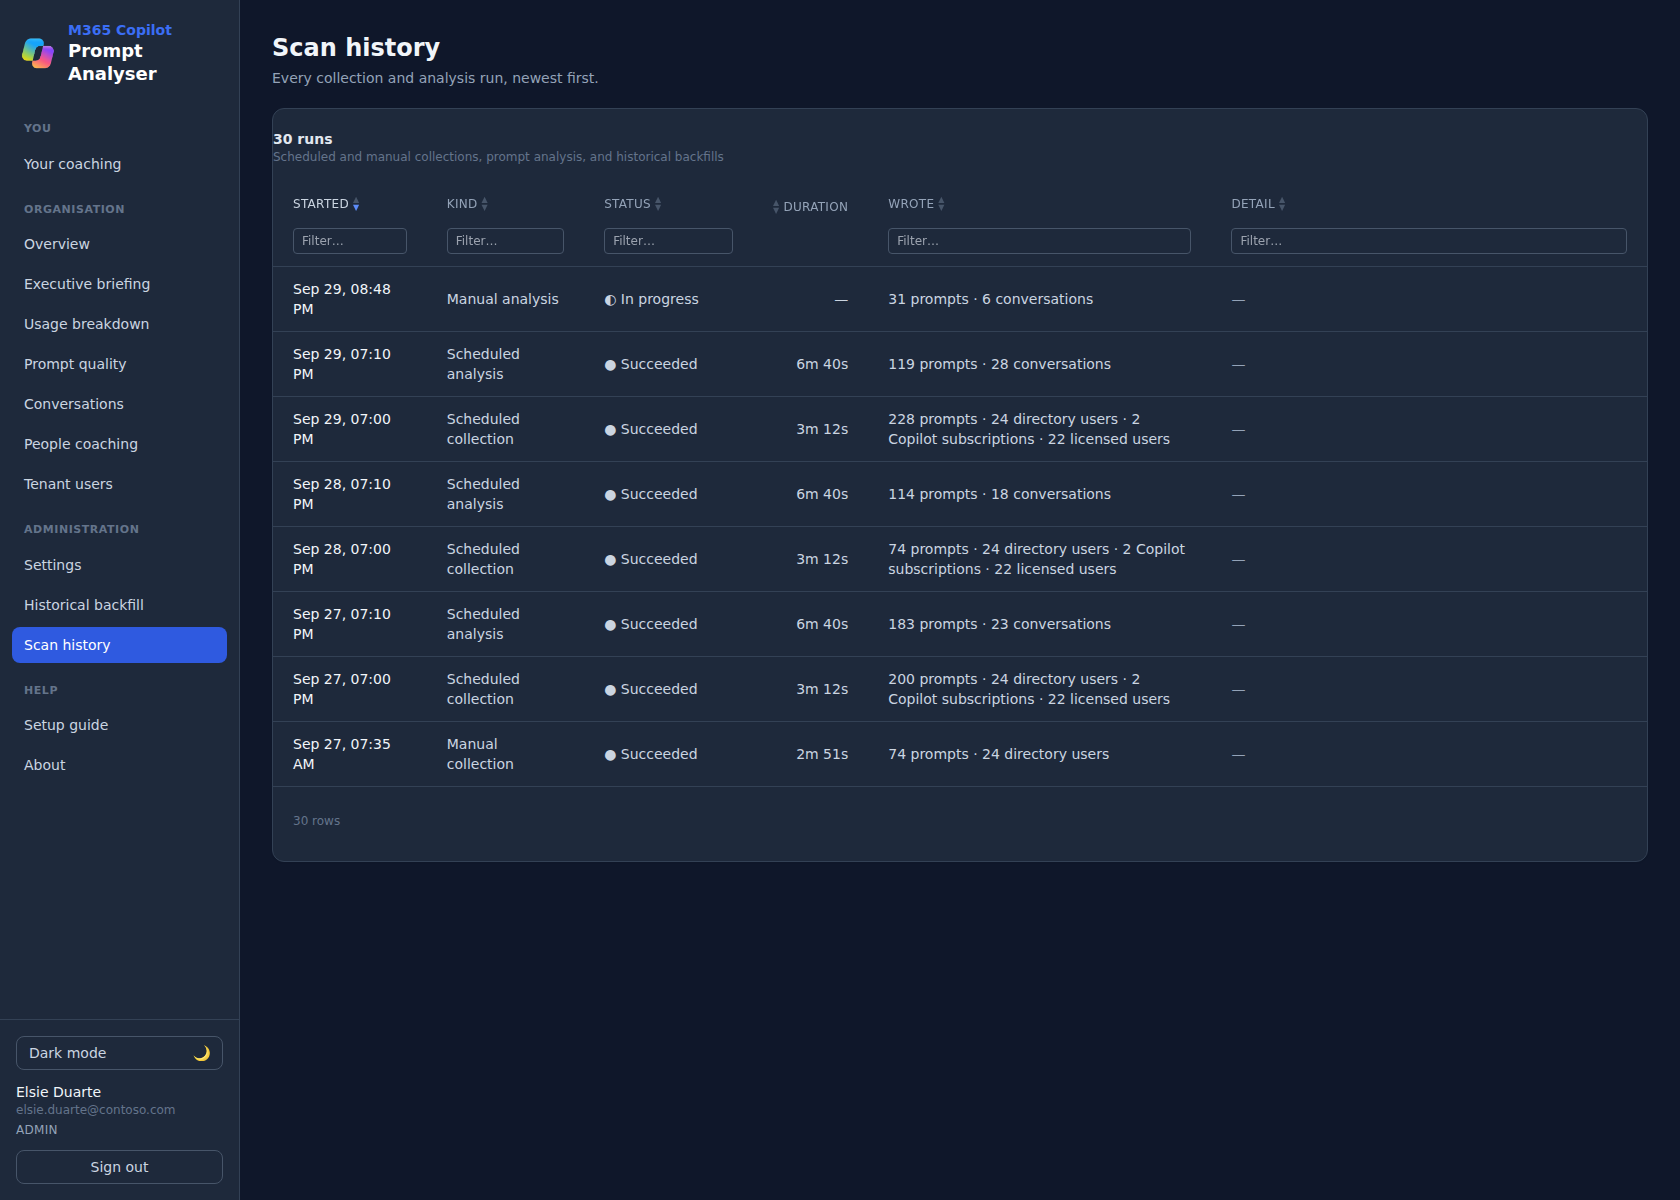
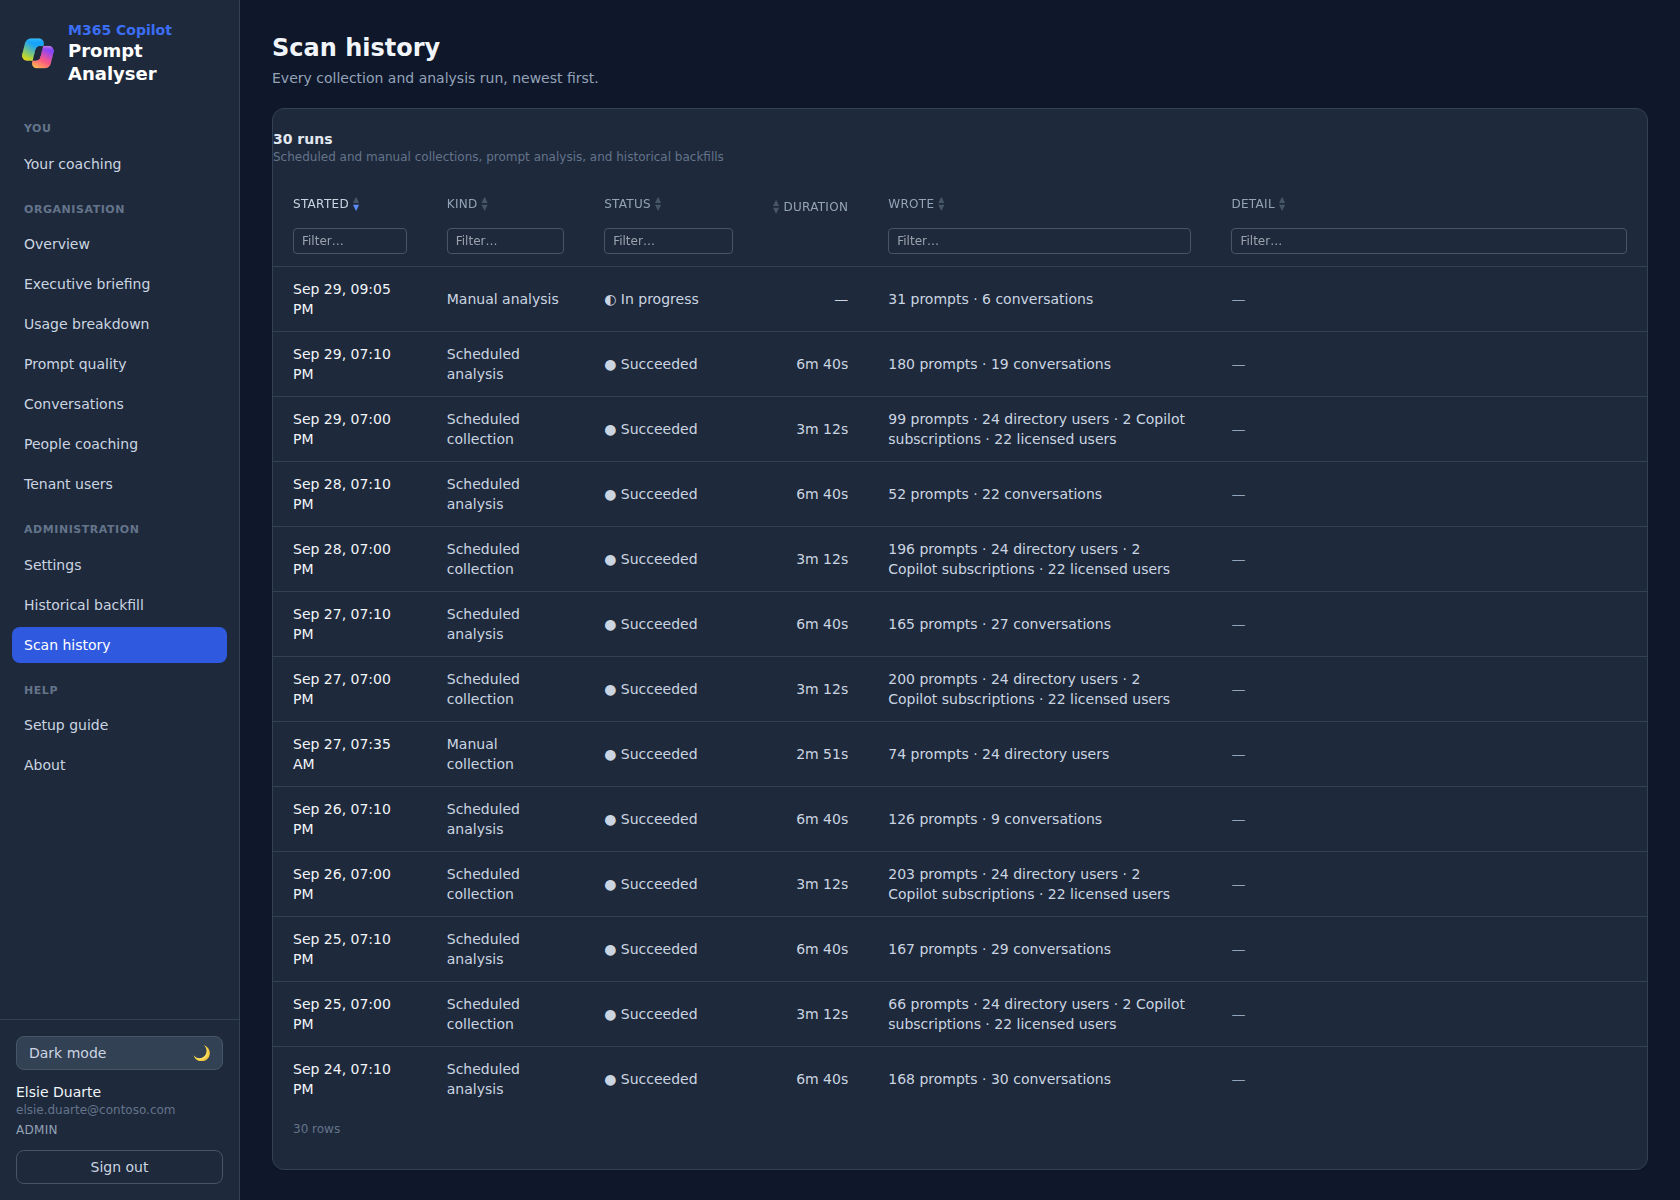
Let tables use the height the viewport has, and document the pages that had none
Two things, both found by looking at the running app rather than at the code.

THE TABLE HEIGHT. Every DataTable on this app capped its body at a fixed pixel
count — 420, 520, 560 or 620 depending on the page. On a 1200px window that
rendered 8 of 30 runs on Scan history with roughly 400px of empty page below
the card, and the only failed run in the log sat behind an inner scrollbar on
the one page whose whole purpose is showing failures.

maxBodyHeight now takes any CSS length as well as a pixel count, and every call
site passes a viewport-relative one with a floor. The reserve varies by page:
17rem where the table is the whole page, 20rem for the other full-page tables,
24rem for the two that sit at the foot of a longer page. Checked first that
every one of these tables is the last element rendered on its page, so none of
them is stealing room from something below.

The floor is not decoration. A bare calc() goes negative on a short window and
a negative max-height clamps to zero, which would collapse the table entirely —
strictly worse than the fixed cap it replaces. Measured in the browser: at a
1200px viewport the body gets 928px and 12 rows with 30px of slack left over;
at 400px the calc would have given 128px and the floor holds it at 240px.

THE README. Five screenshots were committed and referenced nowhere — About,
Historical backfill, People coaching, Settings and Setup guide. Each is a real
[…]

diff --git a/frontend/src/components/DataTable.tsx b/frontend/src/components/DataTable.tsx
@@ -45,9 +45,17 @@ interface Props<Row> {
   emptyMessage?: string;
   rowClassName?: (row: Row) => string;
   onRowClick?: (row: Row) => void;
-  /** When set, the table body scrolls within this pixel height and the header
-   * sticks to the top — keeps long tables from pushing the page scrollbar away. */
-  maxBodyHeight?: number;
+  /** When set, the table body scrolls within this height and the header sticks
+   * to the top — keeps long tables from pushing the page scrollbar away.
+   *
+   * A number is pixels; a string is any CSS length, which is the useful form.
+   * A fixed pixel cap hides rows behind an inner scrollbar even when the
+   * viewport has room to show them — on a run log that means a failed run can
+   * sit below an invisible fold on a page that is otherwise half empty. Prefer
+   * a viewport-relative value, with a floor: a bare calc() goes negative on a
+   * short window and a negative max-height clamps to zero, collapsing the
+   * table entirely. */
+  maxBodyHeight?: number | string;
   /** Show a per-column filter row, and a "N of M rows" count beneath. */
   filterable?: boolean;
 }
@@ -147,7 +155,16 @@ export default function DataTable<Row>({
     <>
     <div
       className="overflow-auto"
-      style={maxBodyHeight ? { maxHeight: `${maxBodyHeight}px` } : undefined}
+      style={
+        maxBodyHeight
+          ? {
+              maxHeight:
+                typeof maxBodyHeight === "number"
+                  ? `${maxBodyHeight}px`
+                  : maxBodyHeight,
+            }
+          : undefined
+      }
     >
       <table className="w-full text-sm">
         <thead className={maxBodyHeight ? "sticky top-0 z-10" : undefined}>

diff --git a/frontend/src/pages/CoachingPage.tsx b/frontend/src/pages/CoachingPage.tsx
@@ -212,7 +212,7 @@ export default function CoachingPage() {
           <div className="card overflow-hidden">
             <div className="border-b border-slate-100 px-5 py-4 dark:border-slate-700">
               <h3 className="text-sm font-semibold text-slate-700 dark:text-slate-200">
-                Your conversations
+                {coaching.name}&rsquo;s conversations
               </h3>
             </div>
             <DataTable
@@ -221,7 +221,7 @@ export default function CoachingPage() {
               initialSort={{ key: "conversation", dir: "desc" }}
               emptyMessage="No conversations for this person."
               columns={convColumns}
-              maxBodyHeight={420}
+              maxBodyHeight="max(240px, calc(100vh - 24rem))"
               rowClassName={(r) =>
                 `cursor-pointer transition-colors hover:bg-slate-50 dark:hover:bg-slate-700/40 ${
                   r.conversation_id === selectedConv ? "bg-brand-50 dark:bg-brand-900/20" : ""

diff --git a/frontend/src/pages/PersonalPage.tsx b/frontend/src/pages/PersonalPage.tsx
@@ -292,7 +292,7 @@ export default function PersonalPage() {
               initialSort={{ key: "conversation", dir: "desc" }}
               emptyMessage="No conversations of yours have been analysed yet."
               columns={convColumns}
-              maxBodyHeight={420}
+              maxBodyHeight="max(240px, calc(100vh - 24rem))"
               rowClassName={(r) =>
                 `cursor-pointer transition-colors hover:bg-slate-50 dark:hover:bg-slate-700/40 ${
                   r.conversation_id === selectedConv ? "bg-brand-50 dark:bg-brand-900/20" : ""

diff --git a/frontend/src/pages/ConversationsPage.tsx b/frontend/src/pages/ConversationsPage.tsx
@@ -114,7 +114,7 @@ export default function ConversationsPage() {
           initialSort={{ key: "conversation", dir: "desc" }}
           emptyMessage="No conversations for this selection."
           columns={columns}
-          maxBodyHeight={520}
+          maxBodyHeight="max(240px, calc(100vh - 20rem))"
           rowClassName={(r) =>
             `cursor-pointer transition-colors hover:bg-slate-50 dark:hover:bg-slate-700/40 ${
               r.conversation_id === selected ? "bg-brand-50 dark:bg-brand-900/20" : ""

diff --git a/frontend/src/pages/UsersPage.tsx b/frontend/src/pages/UsersPage.tsx
@@ -137,7 +137,7 @@ export default function UsersPage() {
           // A directory is long enough that the filter boxes would scroll off
           // the top, which is the difference between the filter row working and
           // being a decoration.
-          maxBodyHeight={520}
+          maxBodyHeight="max(240px, calc(100vh - 20rem))"
           emptyMessage="No users imported yet. Configure the app registration in Settings, then run a collection."
         />
       </ChartCard>

diff --git a/frontend/src/pages/ScanHistoryPage.tsx b/frontend/src/pages/ScanHistoryPage.tsx
@@ -174,7 +174,7 @@ export default function ScanHistoryPage() {
           getRowKey={(r) => r.id}
           initialSort={{ key: "started_at", dir: "desc" }}
           filterable
-          maxBodyHeight={620}
+          maxBodyHeight="max(240px, calc(100vh - 17rem))"
           emptyMessage="Nothing has run yet. Open Settings and use Run now, or wait for the next scheduled collection."
         />
       </ChartCard>

diff --git a/frontend/src/pages/PromptQualityPage.tsx b/frontend/src/pages/PromptQualityPage.tsx
@@ -269,7 +269,7 @@ export default function PromptQualityPage() {
           initialSort={{ key: "quality", dir: "desc" }}
           emptyMessage="No prompts match this selection."
           columns={columns}
-          maxBodyHeight={560}
+          maxBodyHeight="max(240px, calc(100vh - 20rem))"
         />
       </div>
     </div>

diff --git a/README.md b/README.md
@@ -77,6 +77,52 @@ run showing its error. Status is a shape plus a word (● ◐ ○), never colour
 
 ![Scan history](docs/screenshots/scan-history.png)
 
+### People coaching
+
+The same coaching view for anybody in the tenant, for a manager or an enablement
+lead — picked by name rather than by editing a URL. It reads "This person" and
+"Their team" rather than "you", because the reader is not the subject.
+
+This page carried the same mislabelled comparison as the personal one: a bar
+drawn from the whole tenant and called a *team average*, read by somebody about
+a colleague. It is filtered to the person's actual team now, and withheld when
+that team is too small to show without identifying someone.
+
+![People coaching](docs/screenshots/people-coaching.png)
+
+### Historical backfill
+
+Pulling history rather than waiting for the nightly collection, with live
+progress and a per-run table showing prompts, lookback and status. Resumable —
+a backfill that stops partway does not start again from the beginning.
+
+![Historical backfill](docs/screenshots/backfill.png)
+
+### Settings
+
+Graph and Azure OpenAI configuration with **Test connection** for each, the
+guided app-registration wizard, the group fields that decide who can open the
+report and who administers it, demo data, and the manual run controls. Secrets
+are write-only: they can be set and replaced, never read back.
+
+![Settings](docs/screenshots/settings.png)
+
+### Setup guide
+
+The in-app version of the prerequisites, including the one-shot PowerShell that
+creates the app registration, grants admin consent and prints the three values
+Settings asks for — so a first run does not need this README open beside it.
+
+![Setup guide](docs/screenshots/setup-guide.png)
+
+### About
+
+Which build is actually running, in words. Worth a page of its own because
+"have my changes deployed?" is otherwise answered by guesswork; the same stamp
+is on the sign-in page, where you can read it without getting in.
+
+![About](docs/screenshots/about.png)
+
 ### Usage breakdown & dark mode
 Per-app and per-intent volume and average quality, category mix, and GCSE-by-intent.
 Every page supports a light and dark theme.
